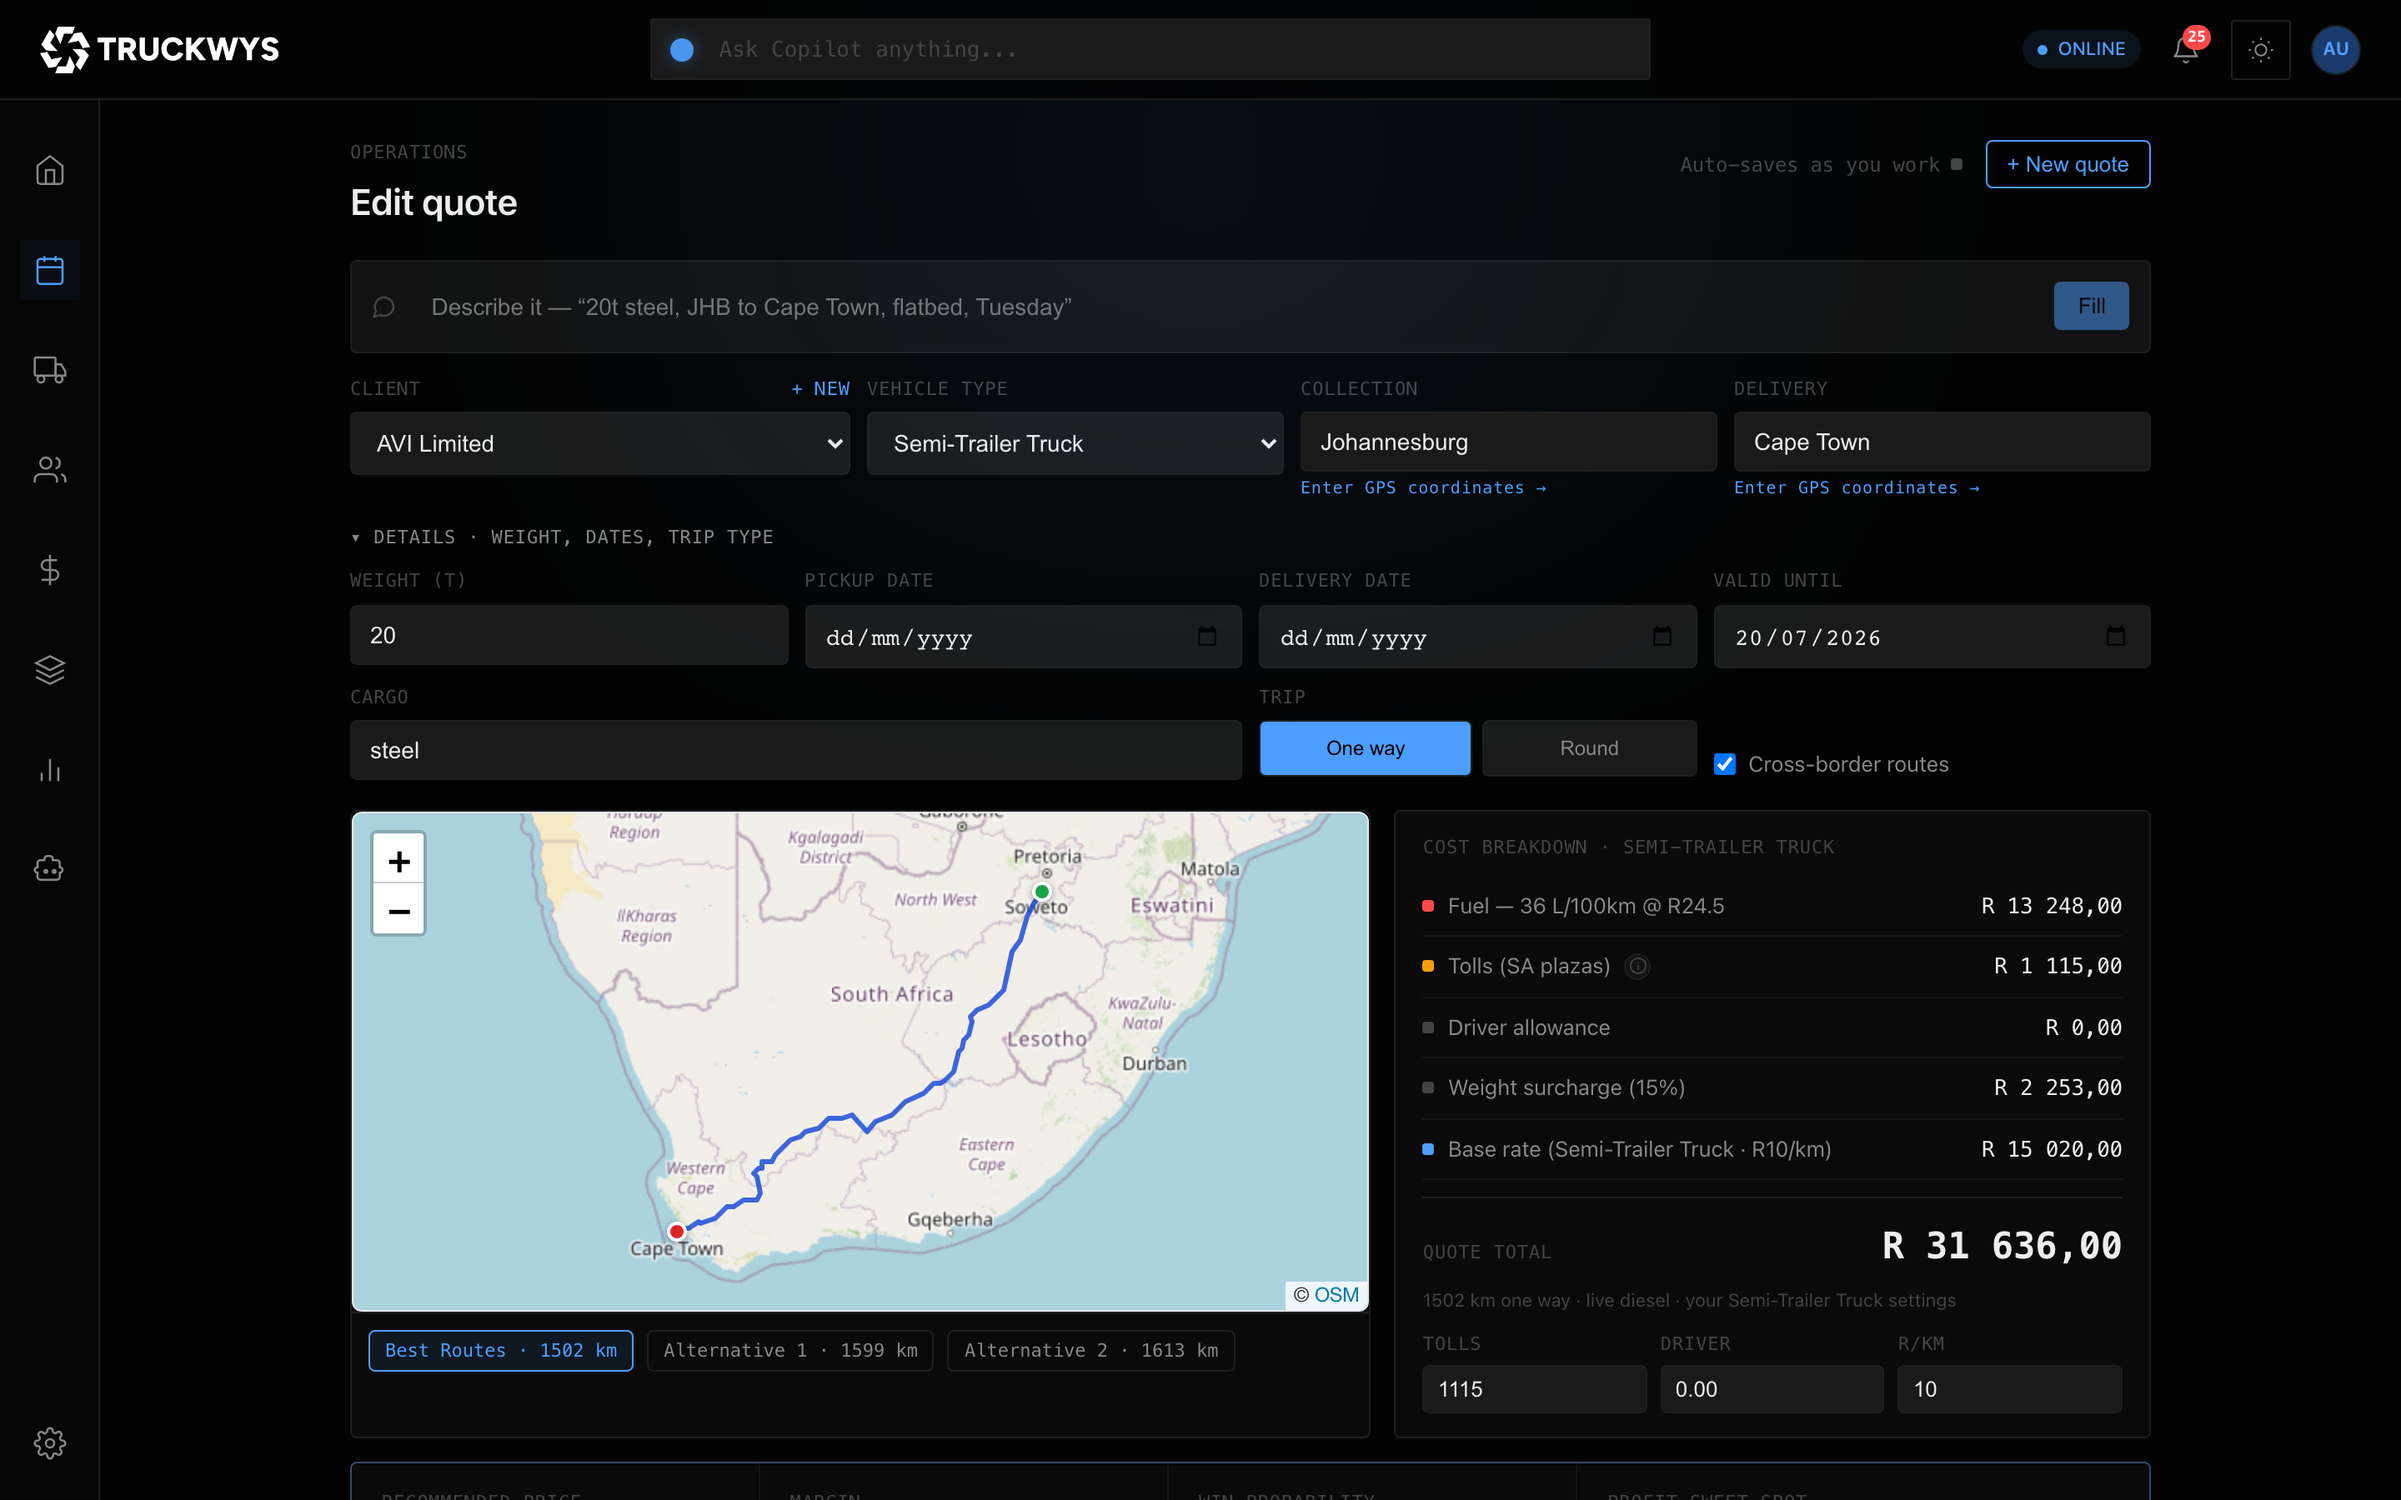
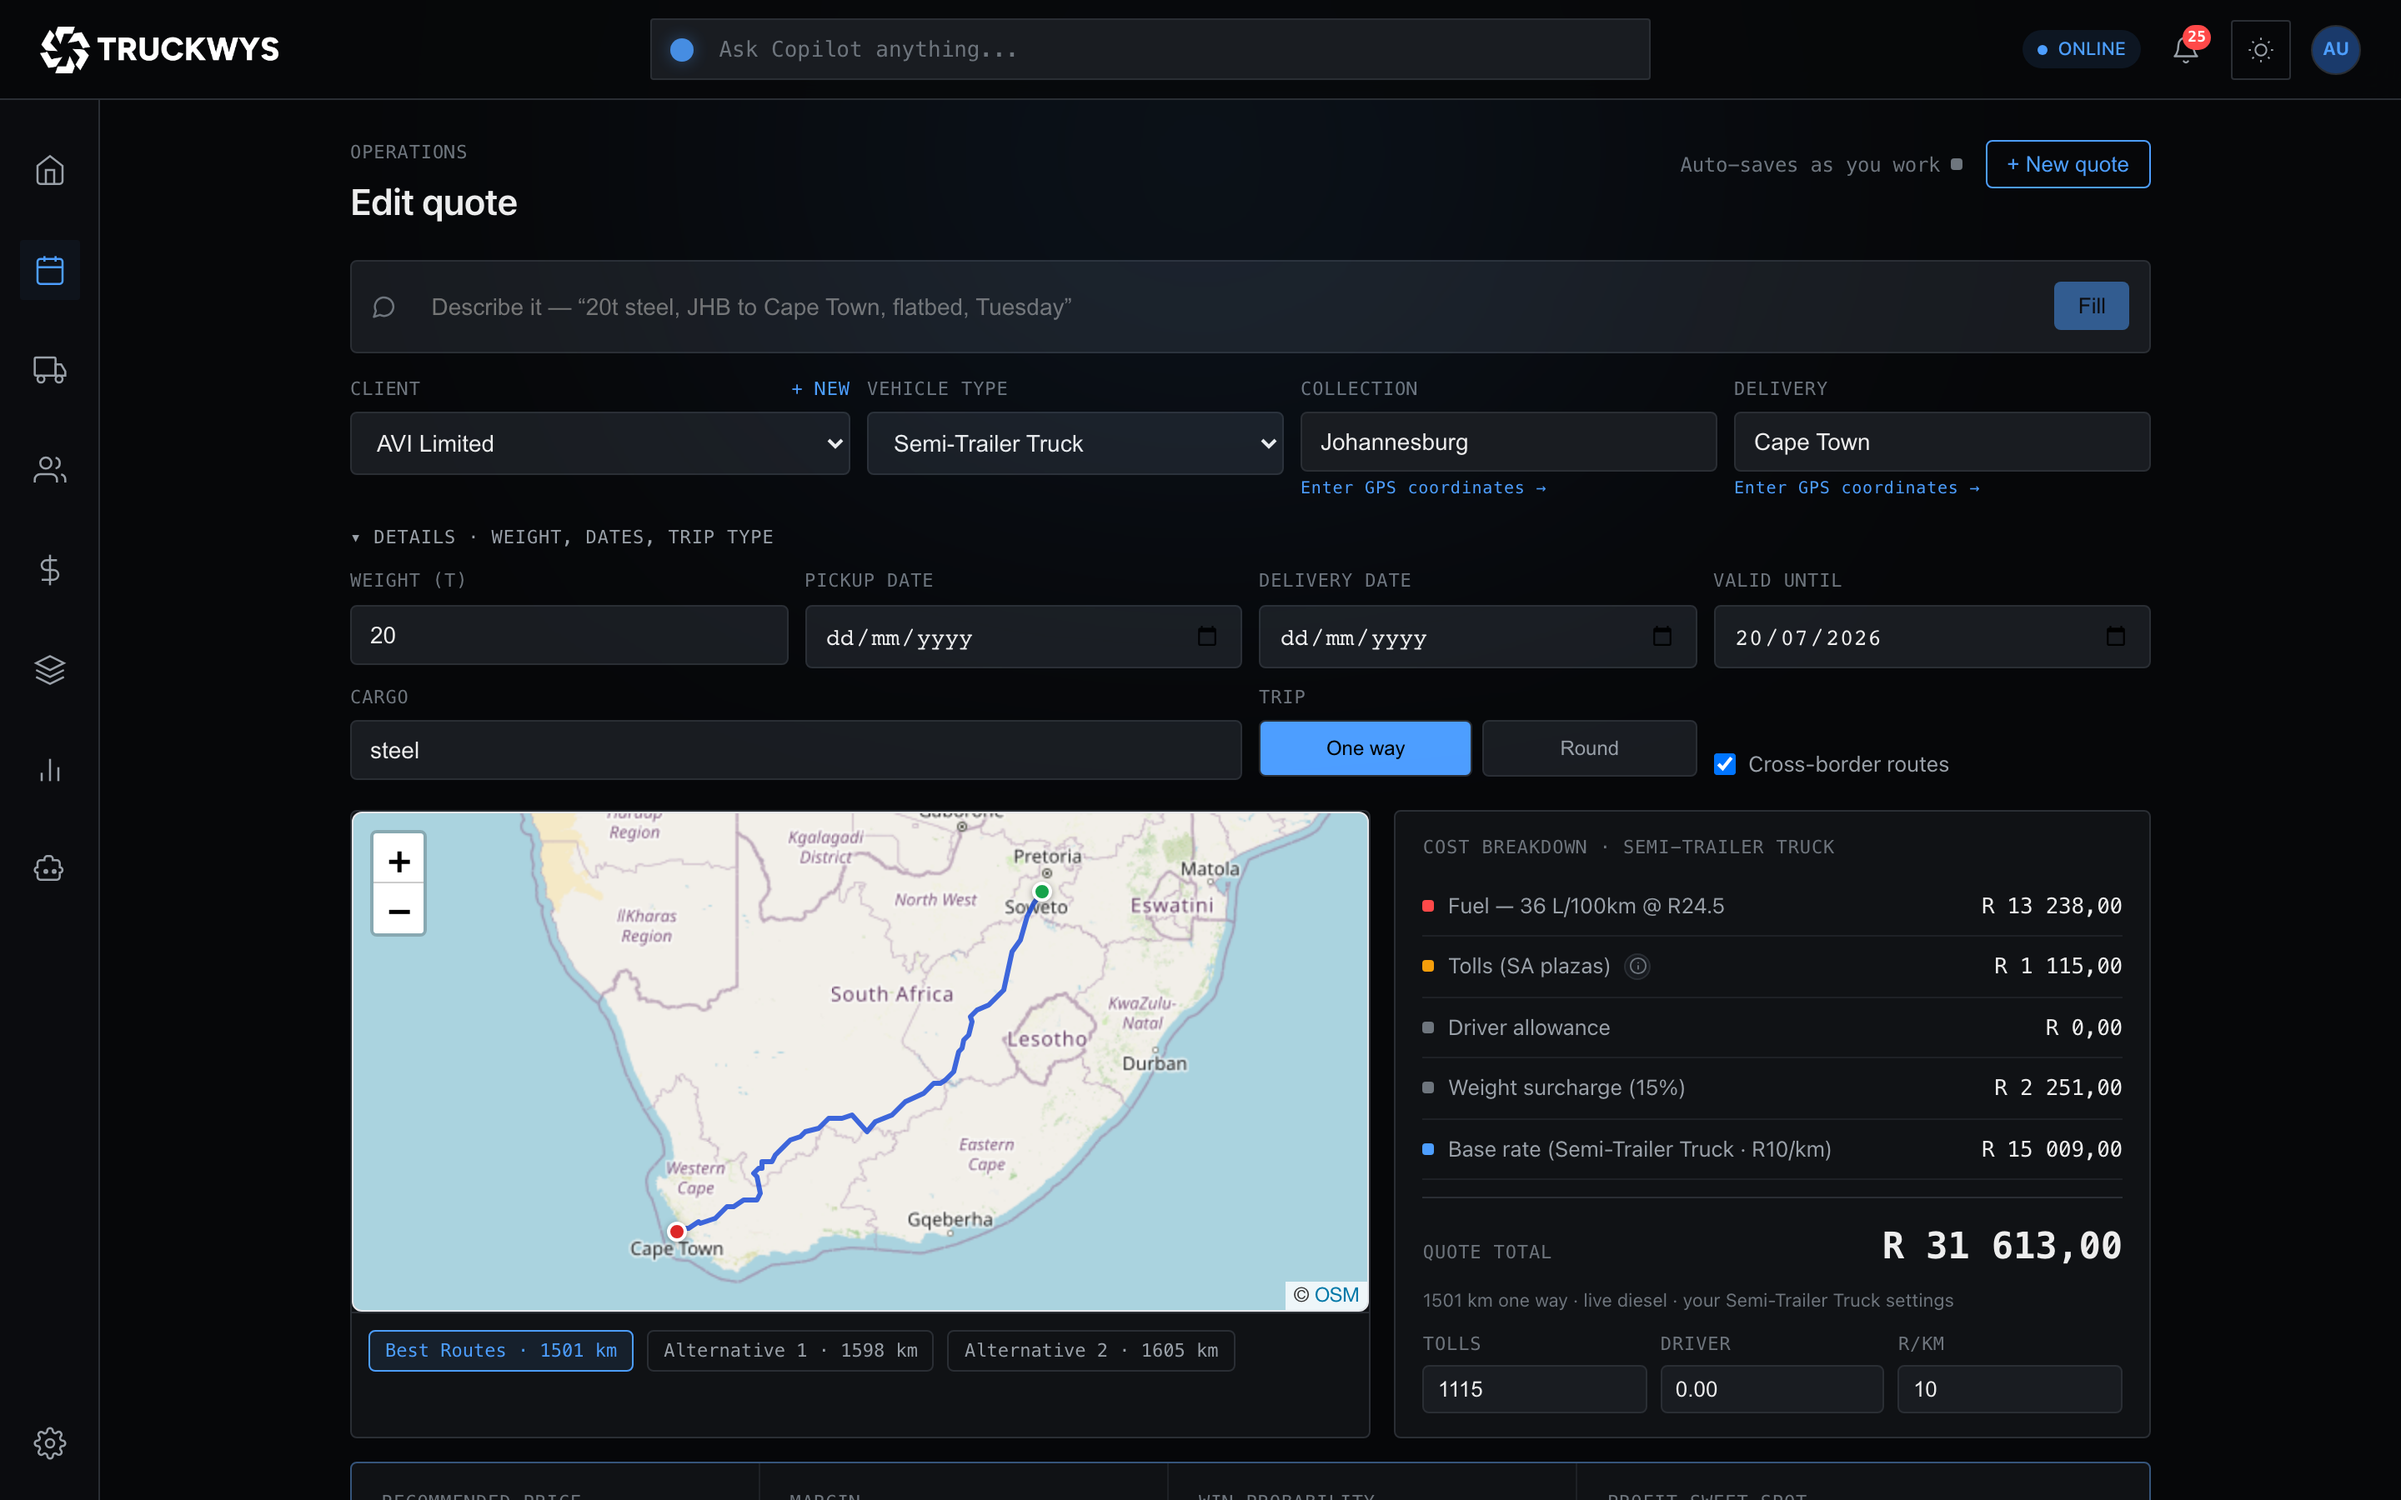
assets: hero shot back over the fold with fixed dark mode; Step 01 goes light
- The app dark theme contrast fix (truckwyas-frontend PR #66) made the dark
  quote builder screenshot-worthy again: recaptured it and restored the
  over-the-fold hero shot with it.
- Step 01 (Quote) now shows the light-mode quote builder, so the story runs
  dark hero shot -> light product steps.

diff --git a/app/page.tsx b/app/page.tsx
@@ -46,8 +46,22 @@ export default function HomePage() {
           </div>
         </div>
 
+        {/* Hero product shot */}
+        <div className="mx-auto mt-14 max-w-6xl px-5">
+          <div className="shot-frame">
+            <Image
+              src="/images/product/quote-builder-dark.png"
+              alt="The TruckWys quote builder pricing a Johannesburg to Cape Town load with the route on a map, fuel at the live diesel price, R1,115 of N1 tolls, and a quote total of R31,613"
+              width={1440}
+              height={900}
+              priority
+              className="w-full"
+            />
+          </div>
+        </div>
+
         {/* Stat strip */}
-        <div className="mx-auto max-w-6xl px-5 pb-14 pt-16">
+        <div className="mx-auto max-w-6xl px-5 pb-14 pt-14">
           <div className="grid grid-cols-2 gap-8 border-y border-line py-8 md:grid-cols-4">
             {[
               { v: '60 sec', l: 'to price a load' },
@@ -103,11 +117,10 @@ export default function HomePage() {
             </div>
             <div className="shot-frame">
               <Image
-                src="/images/product/quote-builder-dark.png"
-                alt="The TruckWys quote builder pricing a Johannesburg to Cape Town load with the route on a map, fuel at the live diesel price, R1,115 of N1 tolls, and a quote total of R31,636"
+                src="/images/product/quote-builder-light.png"
+                alt="The TruckWys quote builder in light mode with route options, cost breakdown and the AI recommended price"
                 width={1440}
                 height={900}
-                priority
                 className="w-full"
               />
             </div>
